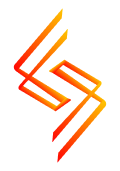
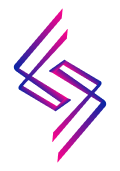
✨ fix script

Changed region(s): [[0.4, 0.3509, 0.9, 0.9649], [0.1, 0.0292, 0.6, 0.6725]]

diff --git a/src/App.css b/src/App.css
@@ -20,7 +20,7 @@ footer {
 }
 
 footer a {
-  color: #FF0404;
+  color: #E41987;
 }
 
 .inputGroup {
@@ -61,14 +61,14 @@ footer a {
 
 .joinBtn,
 .leaveBtn {
-  background: #FF0404;
+  background: #E41987;
   width: 100px;
   margin-left: auto;
 }
 
 .joinBtn:hover,
 .leaveBtn:hover {
-  background: #8C2323;
+  background: #870049;
 }
 
 .createInfo {
@@ -77,16 +77,16 @@ footer a {
 }
 
 .createNewBtn {
-  color: #FF0404;
+  color: #E41987;
   text-decoration: none;
-  border-bottom: 1px solid #FF0404;
+  border-bottom: 1px solid #E41987;
   transition: all 0.3s ease-in-out;
 }
 
 .createNewBtn:hover,
 footer a:hover {
-  color: #8C2323;
-  border-color: #8C2323;
+  color: #870049;
+  border-color: #870049;
 }
 
 .mainWrap {

diff --git a/src/pages/EditorPage.jsx b/src/pages/EditorPage.jsx
@@ -1,3 +1,4 @@
+/* eslint-disable react-hooks/exhaustive-deps */
 import React, { useState, useRef, useEffect } from 'react';
 import toast from 'react-hot-toast';
 import ACTIONS from '../Actions';
@@ -98,7 +99,7 @@ const EditorPage = () => {
                     <div className="logo">
                         <img
                             className="logoImage"
-                            src="/code-sync.png"
+                            src="/code.png"
                             alt="logo"
                         />
                     </div>

diff --git a/server.js b/server.js
@@ -63,5 +63,5 @@ io.on('connection', (socket) => {
     });
 });
 
-const PORT = process.env.PORT || 5000;
+const PORT = process.env.PORT || 3000;
 server.listen(PORT, () => console.log(`Listening on port ${PORT}`));
